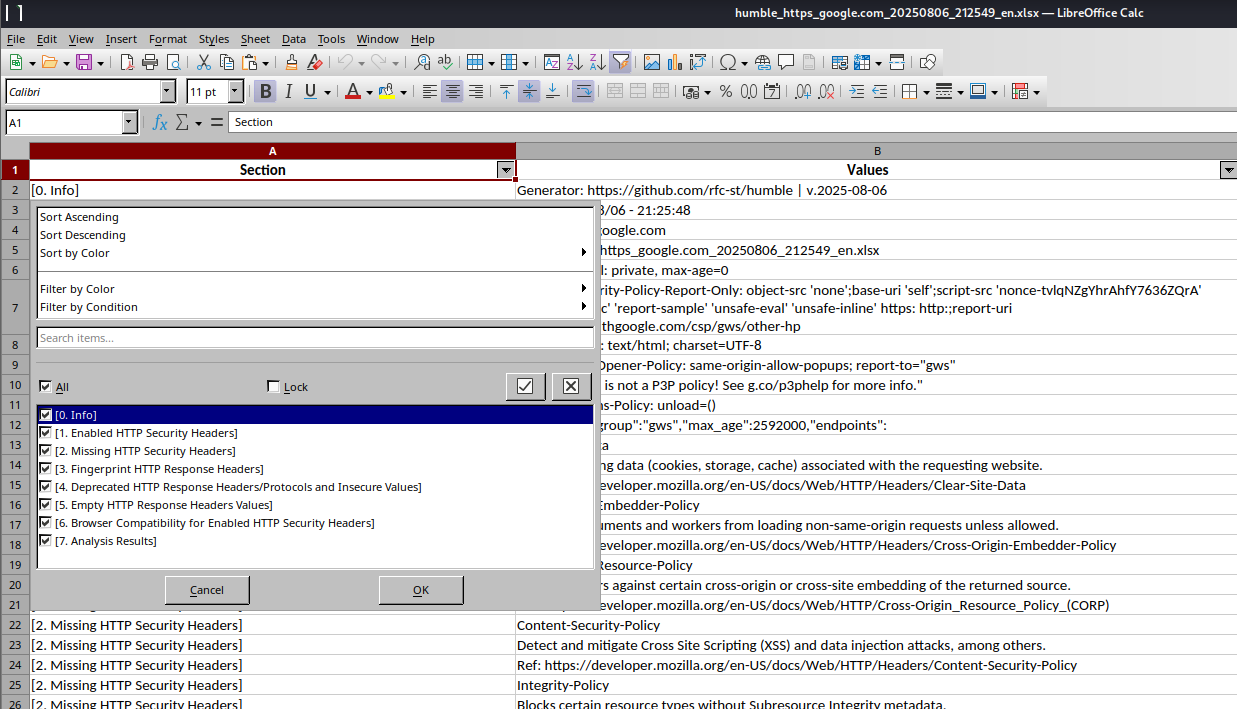
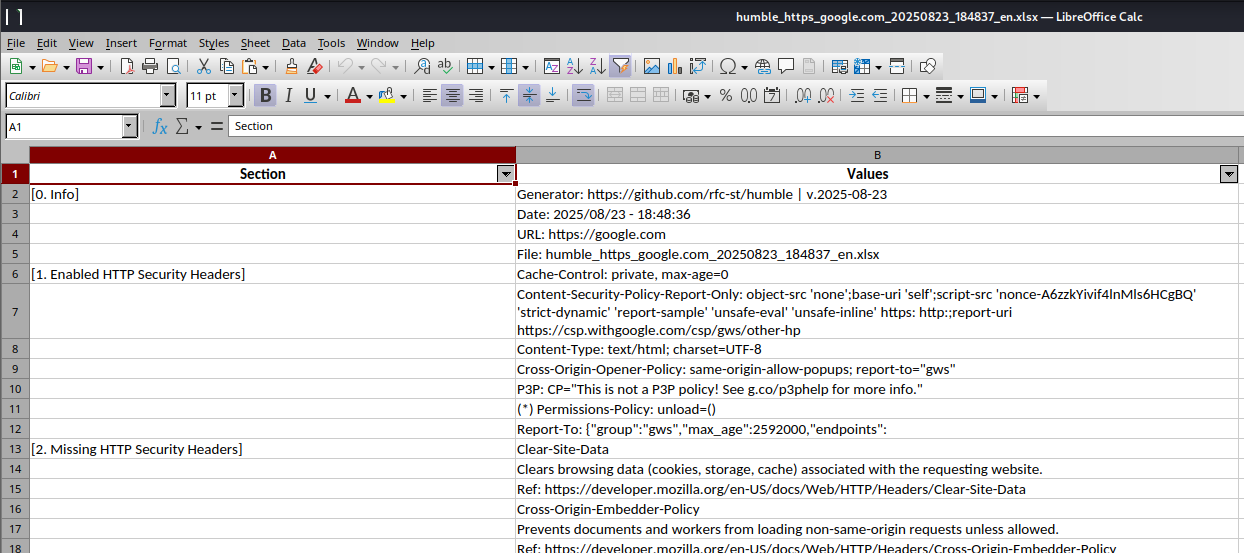
Minor: Improved XLSX formatting in exported analysis

diff --git a/humble.py b/humble.py
@@ -185,7 +185,7 @@ URL_STRING = ('rfc-st', ' URL  : ', 'https://caniuse.com/?')
 XML_STRING = ('Ref: ', 'Value: ', 'Valor: ')
 
 current_time = datetime.now().strftime("%Y/%m/%d - %H:%M:%S")
-local_version = datetime.strptime('2025-08-22', '%Y-%m-%d').date()
+local_version = datetime.strptime('2025-08-23', '%Y-%m-%d').date()
 
 BANNER_VERSION = f'{URL_LIST[4]} | v.{local_version}'
 
@@ -1615,8 +1615,8 @@ def generate_xlsx(final_filename, temp_filename):
     set_xlsx_metadata(workbook)
     set_xlsx_content(final_filename, workbook)
     workbook.close()
-    remove(temp_filename)
     print_export_path(final_filename, reliable)
+    remove(temp_filename)
     sys.exit()
 
 
@@ -1634,24 +1634,41 @@ def set_xlsx_metadata(workbook):
 
 def set_xlsx_content(final_filename, workbook):
     worksheet = workbook.add_worksheet(get_detail(METADATA_S[1], replace=True))
-    cell_fmt = workbook.add_format({'text_wrap': True, 'valign': 'top'})
     bold_fmt = workbook.add_format({'bold': True, 'text_wrap': True,
                                     'align': 'center', 'valign': 'vcenter'})
+    cell_fmt = workbook.add_format({'text_wrap': True, 'valign': 'top'})
+    hidden_fmt = workbook.add_format({'font_color': '#FFFFFF',
+                                      'text_wrap': True, 'valign': 'top'})
     col_wd = {}
-    set_xlsx_format(bold_fmt, cell_fmt, col_wd, final_filename, worksheet)
+    set_xlsx_format(bold_fmt, cell_fmt, col_wd, final_filename, hidden_fmt,
+                    worksheet)
     set_xlsx_width(col_wd, worksheet)
     worksheet.autofilter(0, 0, 0, 1)
 
 
-def set_xlsx_format(bold_fmt, cell_fmt, col_wd, final_filename, worksheet):
-    with open(final_filename, 'r', encoding='utf-8', newline='') as f:
-        for row_idx, row in enumerate(reader(f)):
-            for col_idx, cell in enumerate(row):
-                fmt = (bold_fmt if row_idx == 0 and col_idx in (0, 1)
-                       else cell_fmt)
-                worksheet.write(row_idx, col_idx, cell, fmt)
-                cell_len = len(cell)
-                col_wd[col_idx] = max(col_wd.get(col_idx, 0), cell_len)
+def set_xlsx_format(bold_fmt, cell_fmt, col_wd, final_filename, hidden_fmt,
+                    worksheet):
+    prev_section = None
+    with open(final_filename, 'r', encoding='utf-8', newline='') as csv_final:
+        for row_index, row_data in enumerate(reader(csv_final)):
+            for col_index, cell_value in enumerate(row_data):
+                fmt, prev_section = choose_xlsx_format(bold_fmt, cell_fmt,
+                                                       cell_value, col_index,
+                                                       hidden_fmt, row_index,
+                                                       prev_section)
+                worksheet.write(row_index, col_index, cell_value, fmt)
+                col_wd[col_index] = max(col_wd.get(col_index, 0),
+                                        len(cell_value))
+
+
+def choose_xlsx_format(bold_fmt, cell_fmt, cell_value, col_index, hidden_fmt,
+                       row_index, prev_section):
+    if row_index == 0 and col_index in (0, 1):
+        return bold_fmt, prev_section
+    if col_index == 0 and row_index > 0:
+        return (hidden_fmt, prev_section) if cell_value == prev_section \
+            else (cell_fmt, cell_value)
+    return cell_fmt, prev_section
 
 
 def set_xlsx_width(col_wd, worksheet):

diff --git a/unit_tests/test_humble.py b/unit_tests/test_humble.py
@@ -221,7 +221,7 @@ def delete_temps():
         print(f"[INFO] {message.ljust(max_len + 2)}: {value}")
 
 
-local_version = datetime.strptime('2025-08-22', '%Y-%m-%d').date()
+local_version = datetime.strptime('2025-08-23', '%Y-%m-%d').date()
 parser = ArgumentParser(
     formatter_class=lambda prog: RawDescriptionHelpFormatter(
         prog, max_help_position=34

diff --git a/README.md b/README.md
@@ -6,7 +6,7 @@
 <a target="_blank" href="https://devguide.python.org/versions/" title="Minimum Python version required to run this tool"><img src="https://img.shields.io/badge/Python-%3E%3D3.11-blue?labelColor=343b41"></a>
 <a target="_blank" href="LICENSE" title="License of this tool"><img src="https://img.shields.io/badge/License-MIT-blue.svg?labelColor=343b41"></a>
 <a target="_blank" href="https://github.com/rfc-st/humble/releases" title="Latest release of this tool"><img src="https://img.shields.io/github/v/release/rfc-st/humble?display_name=release&label=Latest%20Release&labelColor=343b41"></a>
-<a target="_blank" href="https://github.com/rfc-st/humble/commits/master" title="Latest commit of this tool"><img src="https://img.shields.io/badge/Latest_Commit-2025--08--22-blue.svg?labelColor=343b41"></a>
+<a target="_blank" href="https://github.com/rfc-st/humble/commits/master" title="Latest commit of this tool"><img src="https://img.shields.io/badge/Latest_Commit-2025--08--23-blue.svg?labelColor=343b41"></a>
 <a target="_blank" href="https://pkg.kali.org/pkg/humble" title="Official tool in Kali Linux"><img src="https://img.shields.io/badge/Kali%20Linux-Tool-blue?labelColor=343b41"></a>
 <br />
 <a target="_blank" href="#" title="Featured on:"><img src="https://img.shields.io/badge/Featured%20on:-343b41"></a>
@@ -178,7 +178,7 @@ Options used: -f -g -p -U -s --hints
 <img src="https://github.com/rfc-st/humble/blob/master/screenshots/humble_json_s.PNG" alt="(Linux) - Brief analysis saved as JSON">
 </p>
 <br />
-.: (Linux) - Detailed analysis saved as XLSX. <a href="https://github.com/rfc-st/humble/raw/master/samples/humble_https_google.com_20250806_212549_en.xlsx">Example.</a><br />
+.: (Linux) - Detailed analysis saved as XLSX. <a href="https://github.com/rfc-st/humble/raw/master/samples/humble_https_google.com_20250823_184837_en.xlsx">Example.</a><br />
 <p></p>
 <p align="center">
 <img src="https://github.com/rfc-st/humble/blob/master/screenshots/humble_xlsx_s.PNG" alt="(Linux) - Brief analysis saved as XSLX">
